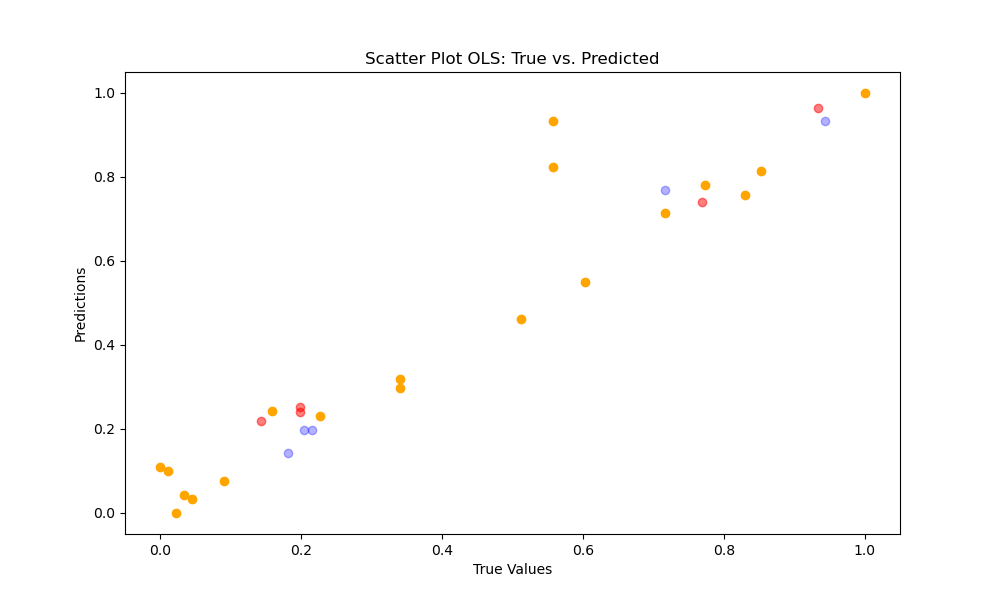
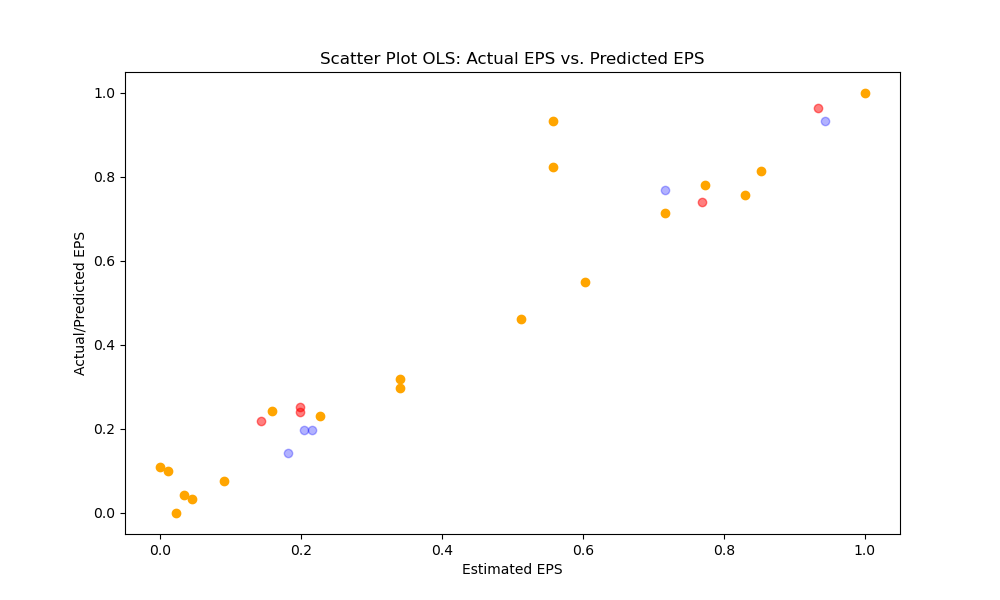
changed the images

Changed region(s): [[0.31, 0.09, 0.713, 0.12], [0.062, 0.39, 0.093, 0.63], [0.465, 0.93, 0.558, 0.96]]

diff --git a/code/OLS_model/model.py b/code/OLS_model/model.py
@@ -47,9 +47,9 @@ plt.figure(figsize=(10, 6))
 plt.scatter(x_train, y_train, color='orange', label='Training Data')
 plt.scatter(x_test, y_test, color='blue', label='Testing Data', alpha=0.3)
 plt.scatter(y_test, model.predict(X_test), color='red', alpha=0.5)
-plt.xlabel("True Values")  # Updated label
-plt.ylabel("Predictions")  # Updated label
-plt.title("Scatter Plot OLS: True vs. Predicted")  # Updated title
+plt.xlabel("Estimated EPS")  # Updated label
+plt.ylabel("Actual/Predicted EPS")  # Updated label
+plt.title("Scatter Plot OLS: Actual EPS vs. Predicted EPS")  # Updated title
 plt.savefig(os.path.join(output_dir, "scatterplot_ols.png"))
 plt.show()
 
@@ -67,8 +67,12 @@ diagnostic = LinearRegDiagnostic(model)
 vif, fig, ax = diagnostic()
 fig.savefig(os.path.join(output_dir, "diagnosticplot_ols.png"))
 
-#view model summary
+# view model summary
 ols_model_file_path = '/tmp/AIBAS_KURS_PS_MS/data/OLS_model/currentOlsSolution.xml'
 with open(ols_model_file_path, 'w') as file:
 	file.write(model.summary().as_text())
+
+# Save the model
+with open("/tmp/AIBAS_KURS_PS_MS/images/knowledgeBase/currentOlsSolution.pkl", "wb") as file:
+    pickle.dump(model, file)
 

diff --git a/images/codeBase/activation_ols.py b/images/codeBase/activation_ols.py
@@ -1,0 +1,21 @@
+import statsmodels.api as sm
+import pandas as pd
+import pickle
+
+
+with open('/tmp/knowledgeBase/currentOlsSolution.pkl','rb') as f: #/tmp/AIBAS_KURS_PS_MS/images/knowledgeBase/currentOlsSolution.pkl
+  model = pickle.load(f)
+
+
+act_df = pd.read_csv(f'/tmp/acticationBase/activation_data.csv')#/tmp/AIBAS_KURS_PS_MS/data/activation_data.csv
+
+x_train = act_df['Estimated EPS'] # Independent variable
+y_train = act_df['Actual EPS'] # Dependent variable
+
+#X_train = sm.add_constant(x_train)
+
+
+prediction = model.predict(act_df)
+
+print("The predicted EPS is:", prediction)
+print("The actual EPS is:", act_df['Actual EPS'])

diff --git a/images/codeBase/activation_ai.py b/images/codeBase/activation_ai.py
@@ -1,0 +1,12 @@
+import sys
+sys.path.append('/tmp/codeBase/pybrain') #/tmp/AIBAS_KURS_PS_MS/pybrain
+from pybrain.tools.customxml.networkreader import NetworkReader
+import pandas as pd
+
+ann = NetworkReader.readFrom(f'/tmp/ai_system/knowledgeBase/currentAiSolution.xml ') #/tmp/AIBAS_KURS_PS_MS/data/ANN/currentAiSolution.xml
+act_df = pd.read_csv(f'/tmp/ai_system/activationBase/activation_data.csv') #/tmp/AIBAS_KURS_PS_MS/data/activation_data.csv
+
+x_test = act_df[['Estimated EPS']]
+#print(x_test)
+#print(act_df.head())
+print('The predicted value is:', ann.activate(x_test))
